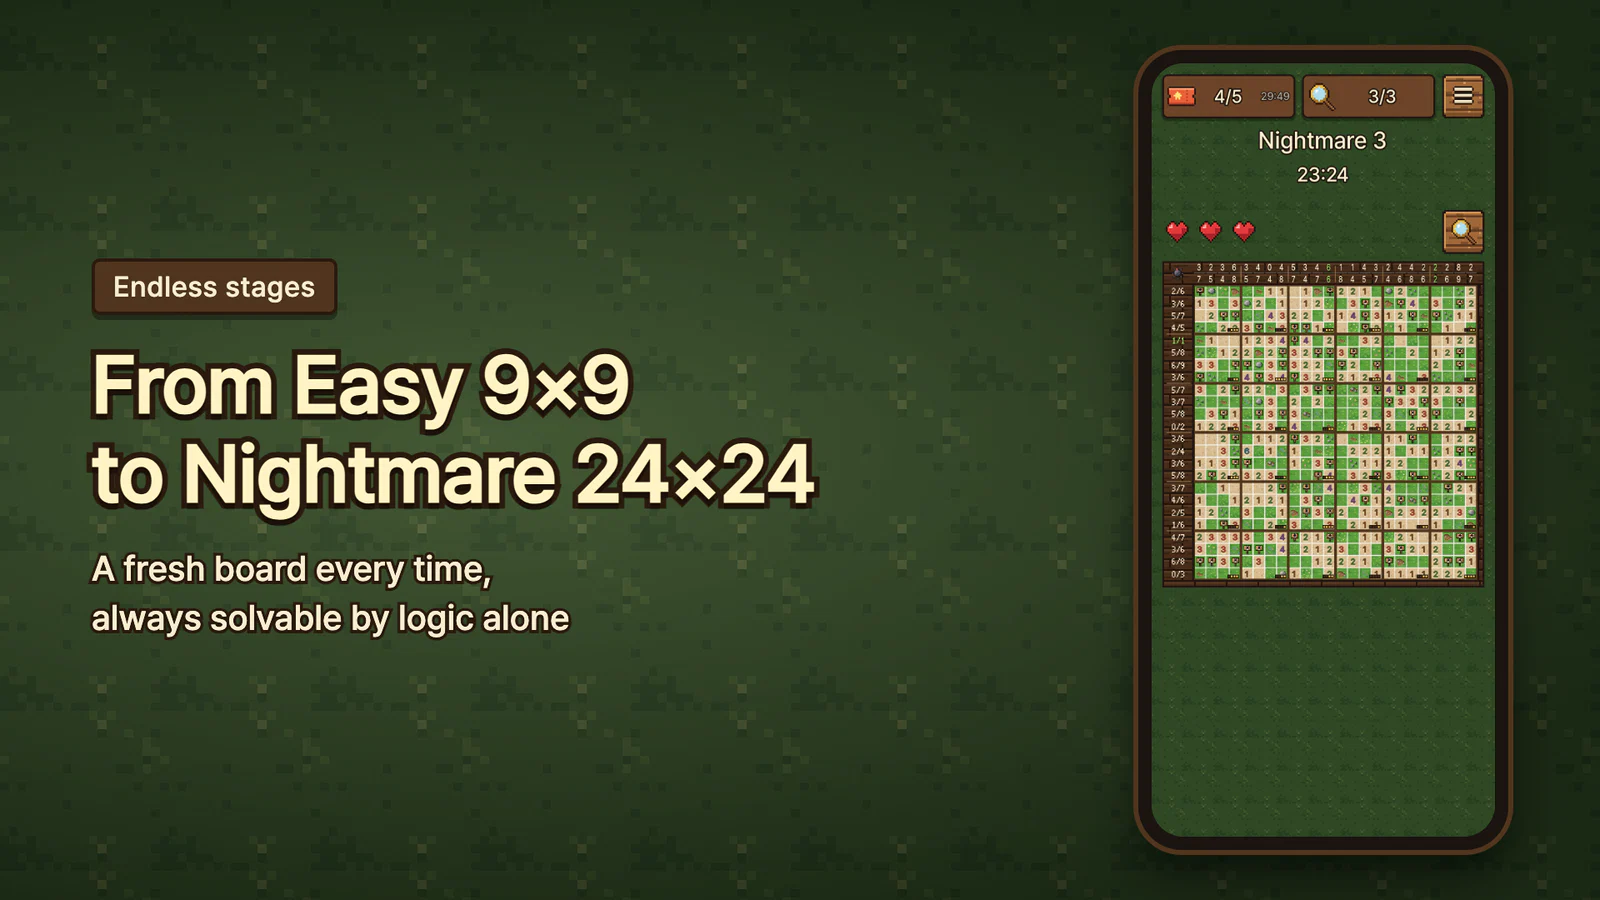
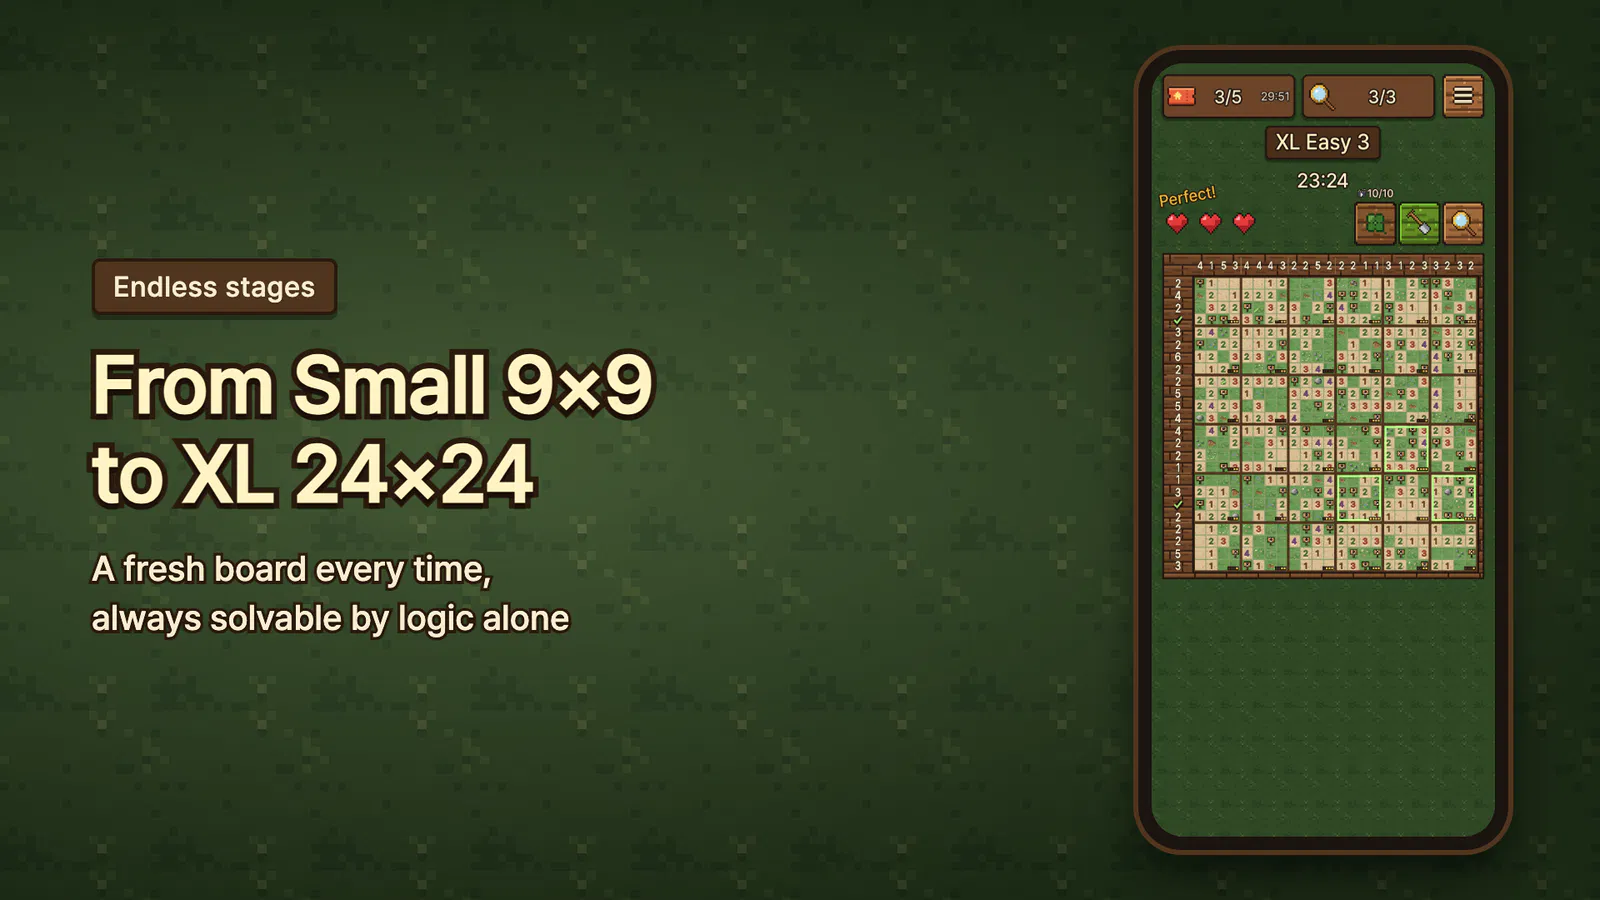
feat(home): 마인스위쿠 카드 스크린샷을 v1.6.2 스토어 이미지로, 11개 언어
Claude-Session: https://claude.ai/code/session_01F77sswqTTXQwEAbS4ynmuT

Changed region(s): [[0.7188, 0.0933, 0.9375, 0.6533], [0.0938, 0.3733, 0.5312, 0.5911]]

diff --git a/legal-src/games/minesweeku.js b/legal-src/games/minesweeku.js
@@ -40,10 +40,9 @@ module.exports = {
     pixelated: true,
     stores: [{ id: "google-play", url: "https://play.google.com/store/apps/details?id=com.pdf.minesweeku" }],
     status: "available",
-    screenshots: {
-      ko: ["01", "02", "03", "04", "05"].map((n) => `/assets/games/minesweeku/ko-${n}.webp`),
-      default: ["01", "02", "03", "04", "05"].map((n) => `/assets/games/minesweeku/en-${n}.webp`)
-    },
+    // Store screenshots of v1.6.2 (store/google-play/screenshots/<locale>/01-05.png), 1600×900 WebP.
+    screenshots: Object.fromEntries(["ko", "en", "ja", "zh", "vi", "fr", "es", "de", "it", "pt", "ar"]
+      .map((l) => [l, ["01", "02", "03", "04", "05"].map((n) => `/assets/games/minesweeku/${l}-${n}.webp`)])),
     genre: {
       ko: "퍼즐 / 로직", en: "Puzzle / Logic", ja: "パズル / ロジック", zh: "益智 / 逻辑", vi: "Giải đố / Logic",
       fr: "Puzzle / Logique", es: "Puzle / Lógica", de: "Puzzle / Logik", it: "Puzzle / Logica",
